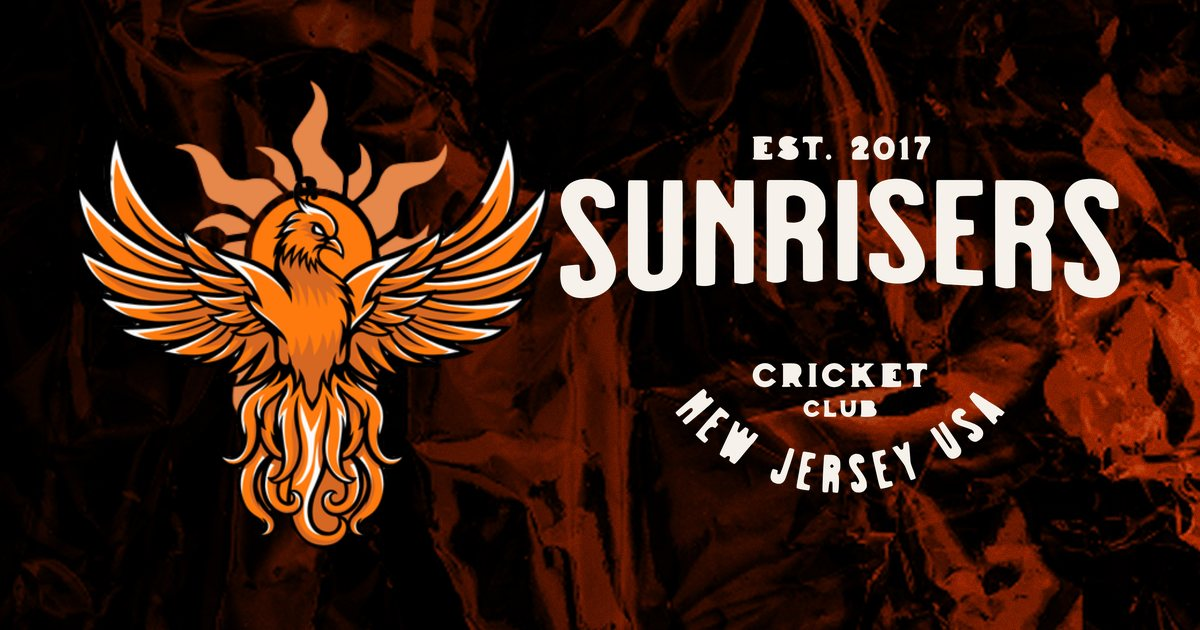
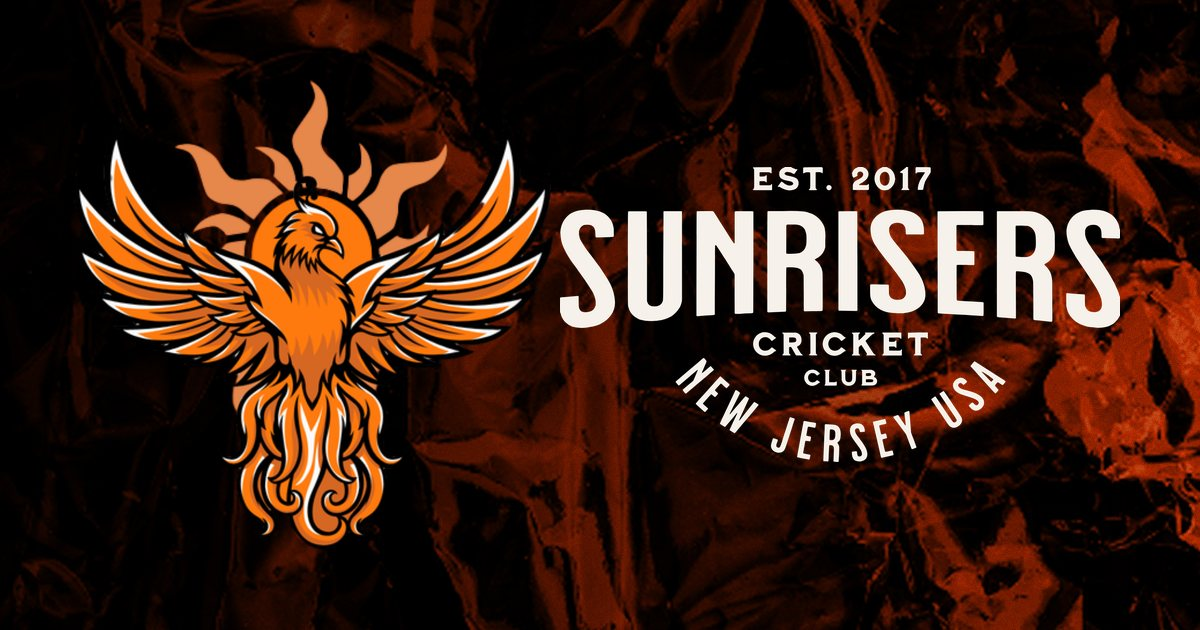
Wordmark: full lockup traced from Sai's two hand-cleaned images (8x upscale, flat vector, spacing per reference); OG from vector

Changed region(s): [[0.4625, 0.2111, 0.9558, 0.7841]]

diff --git a/tools/trace-wordmark.py b/tools/trace-wordmark.py
@@ -1,24 +1,28 @@
 #!/usr/bin/env python3
-"""Trace brand-src/wordmark.png (the supplied Milkstore 02 lettering) into a crisp one-colour SVG.
+"""Trace the supplied Milkstore 02 lettering into one crisp, flat, one-colour SVG (the hero and OG wordmark).
 
-The PNG has a soft halo baked into its alpha channel. We upscale the alpha 4x (Lanczos), blur by 2px to
-round off pixel steps, cut it at 50 percent alpha (that is where the halo ends and the letter edge is),
-then trace with potrace (smooth curves) and optimise with svgo.  Output: src/assets/img/brand/wordmark.svg
-(fill currentColor, viewBox 0 0 800 516) and brand-src/wordmark-traced-2x.png (cream, for the OG image).
+Sources (hand-cleaned by Sai: flat cream, hard alpha edges, no halo; see tools/wordmark_src.py for the layout):
+  brand-src/wordmark-sunrisers-est-clean.png    EST. 2017 + SUNRISERS
+  brand-src/wordmark-cricket-club-nj-clean.png  CRICKET CLUB + arched NEW JERSEY USA
+Steps: compose both onto one alpha canvas (Lanczos upscale straight to 8x the final size), blur ~0.5 px to round off the
+pixel steps, cut at 50 percent alpha, trace with potrace (smooth curves, corners kept), optimise with svgo.
+Output: src/assets/img/brand/wordmark.svg (fill currentColor, viewBox 0 0 800 422) and brand-src/wordmark-traced-2x.png
+(cream, for the OG image).
 Needs potrace (JS) which is NOT a devDependency (it pulls in vulnerable jimp): run `npm i --no-save potrace` first.
 Usage: python3 tools/trace-wordmark.py
 """
-import subprocess, tempfile, pathlib
+import subprocess, tempfile, pathlib, sys
 import numpy as np
 from PIL import Image, ImageFilter
+sys.path.insert(0, str(pathlib.Path(__file__).resolve().parent))
+from wordmark_src import R, W, H, compose
 
-R = pathlib.Path(__file__).resolve().parent.parent
-al = Image.open(R / "brand-src/wordmark.png").convert("RGBA").split()[3]
-S = 4
-big = al.resize((al.width * S, al.height * S), Image.LANCZOS).filter(ImageFilter.GaussianBlur(2))
-bw = np.where(np.array(big) > 128, 0, 255).astype("uint8")
+S = 8
+THR = 128
+big = Image.fromarray(compose(S)).filter(ImageFilter.GaussianBlur(3.5))
+bw = np.where(np.array(big) > THR, 0, 255).astype("uint8")
 with tempfile.TemporaryDirectory() as t:
     p = pathlib.Path(t) / "bw.png"
     Image.fromarray(bw).save(p)
-    subprocess.run(["node", str(R / "tools/trace-wordmark.mjs"), str(p), str(R / "src/assets/img/brand/wordmark.svg"), "0.4", "12"], check=True, cwd=R)
+    subprocess.run(["node", str(R / "tools/trace-wordmark.mjs"), str(p), str(R / "src/assets/img/brand/wordmark.svg"), "1", "60", str(S), "0.9", str(W), str(H)], check=True, cwd=R)
 subprocess.run(["node", str(R / "tools/render-wordmark.mjs")], check=True, cwd=R)

diff --git a/tools/compare-wordmark.py b/tools/compare-wordmark.py
@@ -1,0 +1,34 @@
+#!/usr/bin/env python3
+"""Overlay check: supplied alpha (halo and all) vs the traced vector. Writes shots/brand/wordmark-compare-*.png.
+Grey = both, green = only in the original (its soft halo or detail the trace dropped), magenta = only in the trace."""
+import pathlib, sys, numpy as np
+from PIL import Image
+sys.path.insert(0, str(pathlib.Path(__file__).resolve().parent))
+from wordmark_src import R, compose
+ref = Image.fromarray(compose(1))
+tr = Image.open(R/"brand-src/wordmark-traced-2x.png").convert("RGBA").split()[3].resize(ref.size, Image.LANCZOS)
+a = np.array(ref) > 128; b = np.array(tr) > 128
+print("IoU", round((a & b).sum()/(a | b).sum(), 4))
+def on_dark(m, col=(246,241,234)):
+    o = np.zeros(m.shape+(3,), "uint8"); o[...] = (20,12,10); o[m] = col; return Image.fromarray(o)
+ov = np.zeros(a.shape+(3,), "uint8"); ov[...] = (20,12,10)
+ov[a & b] = (150,150,150); ov[a & ~b] = (60,220,90); ov[~a & b] = (230,60,200)
+ra = np.array(ref).astype(float)/255; o = np.zeros(a.shape+(3,), "uint8"); o[...] = (20,12,10)
+o = (o*(1-ra[...,None]) + np.array((246,241,234))*ra[...,None]).astype("uint8")
+panels = [Image.fromarray(o), on_dark(b), Image.fromarray(ov)]
+W = sum(p.width for p in panels)+20*2; sheet = Image.new("RGB", (W, ref.height), (0,0,0)); x = 0
+for p in panels: sheet.paste(p, (x, 0)); x += p.width+20
+out = R/"shots/brand"; out.mkdir(parents=True, exist_ok=True)
+sheet.save(out/"wordmark-compare-original-vs-traced-vs-overlay.png")
+def zoom(box, z, name):
+    cs = [p.crop(box).resize(((box[2]-box[0])*z, (box[3]-box[1])*z), Image.LANCZOS if i<2 else Image.NEAREST) for i, p in enumerate(panels[:2])]
+    Image.fromarray(np.vstack([np.array(c) for c in cs])).save(out/name)
+zoom((0,0,400,240), 3, "wordmark-zoom-original-vs-traced.png")
+zoom((120,225,520,422), 3, "wordmark-zoom-bottom-original-vs-traced.png")
+
+# layout check against the home reference: reference crop scaled so SUNRISERS is the same width as ours
+rf = Image.open(R/"brand-src/home-reference.png").convert("RGB").crop((236,138,598,332))
+rf = rf.resize((round(rf.width*786/347), round(rf.height*786/347)), Image.LANCZOS)
+lock = panels[1]
+sheet2 = Image.new("RGB", (rf.width+lock.width+20, max(rf.height, lock.height)), (0,0,0)); sheet2.paste(rf,(0,0)); sheet2.paste(lock,(rf.width+20,0))
+sheet2.save(out/"wordmark-layout-reference-vs-traced.png")

diff --git a/tools/wordmark_src.py b/tools/wordmark_src.py
@@ -1,0 +1,33 @@
+"""Shared by trace-wordmark.py and compare-wordmark.py: compose the two supplied wordmark halves into one alpha canvas.
+
+  brand-src/wordmark-sunrisers-est-clean.png     800x230  EST. 2017 + SUNRISERS (hand-cleaned)   placed 1:1 at the top
+  brand-src/wordmark-cricket-club-nj-clean.png   800x314  CRICKET / CLUB / arched NEW JERSEY USA (hand-cleaned), placed at BOT_K scale
+Layout is taken from brand-src/home-reference.png: CRICKET is 0.32 of the SUNRISERS width and starts a hair under it,
+the arch is 0.58 of the SUNRISERS width.  (CRICKET is 423px wide in the supplied file; 250 / 423 = 0.59.)
+Keep the constants in sync with the overlap test in tests/site.spec.mjs.
+"""
+import pathlib
+import numpy as np
+from PIL import Image
+
+R = pathlib.Path(__file__).resolve().parent.parent
+W, H = 800, 422          # lockup canvas = SVG viewBox
+BOT_K = 0.59             # scale of the cricket-club file
+BOT_X, BOT_Y = 165, 236  # where its top-left lands (centres CRICKET under SUNRISERS, ~6px under the lowest S)
+
+def alpha(name):
+    return Image.open(R / "brand-src" / name).convert("RGBA").getchannel("A")
+
+def compose(S=1, resample=Image.LANCZOS):
+    """Return the lockup alpha as a uint8 array at S times the 800x422 canvas."""
+    top = alpha("wordmark-sunrisers-est-clean.png")
+    bot = alpha("wordmark-cricket-club-nj-clean.png")
+    out = np.zeros((H * S, W * S), "uint8")
+    t = np.array(top.resize((top.width * S, top.height * S), resample))
+    out[: t.shape[0]] = t
+    bw, bh = round(bot.width * BOT_K * S), round(bot.height * BOT_K * S)
+    b = np.array(bot.resize((bw, bh), resample))
+    y0, x0 = BOT_Y * S, BOT_X * S
+    sl = out[y0 : y0 + bh, x0 : x0 + bw]
+    np.maximum(sl, b[: sl.shape[0], : sl.shape[1]], out=sl)
+    return out

diff --git a/tools/build-brand.py b/tools/build-brand.py
@@ -82,9 +82,7 @@ for W in (96, 192, 384):
 print("phoenix aspect", ph.width / ph.height)
 
 # ---- 4. wordmark ----
-wm = Image.open(S / "wordmark.png").convert("RGBA"); wm = wm.crop(wm.getbbox())
-print("wordmark", wm.size, "aspect", wm.width / wm.height)
-# the hero wordmark is the traced vector src/assets/img/brand/wordmark.svg (tools/trace-wordmark.py); the supplied wordmark.png has a baked-in soft halo, so it is not shipped
+# the hero wordmark is the traced vector src/assets/img/brand/wordmark.svg (tools/trace-wordmark.py); the supplied wordmark PNGs have a baked-in soft halo, so it is not shipped
 
 # ---- 5. icons on a dark ground (maskable-safe padding) ----
 def icon(size, pad=0.14, bg=(18, 8, 4)):

diff --git a/docs/BRAND-SLOTS.md b/docs/BRAND-SLOTS.md
@@ -6,7 +6,7 @@ Everything brand-specific is isolated so it can be swapped without touching layo
 |---|---|---|
 | Colours | `src/css/tokens.css`, block "BRAND SLOT 1" (`--ink`, `--sun`, `--flare`, `--paper`, `--on-*`) | Replace values only. Keep the names. Keep text/background pairs at 4.5:1 (7:1 for small text on black). Run `npm test` (axe) after. |
 | Fonts | `src/css/tokens.css` "BRAND SLOT 2" plus `@font-face` at the top of `src/css/site.css`; font files in `src/assets/fonts/` | Self-host new woff2 files (no Google Fonts links: the CSP blocks them). Update the preload in `src/partials/layout.html`. |
-| Wordmark (hero, OG) | `brand-src/wordmark.png` is the supplied Milkstore 02 lettering with a soft halo baked into its alpha. `python3 tools/trace-wordmark.py` cuts the alpha at 50 percent after a 4x upscale, traces it with potrace and optimises with svgo into `src/assets/img/brand/wordmark.svg` (one path, `currentColor`, viewBox 800x516), inlined in the home hero via `{{wordmark}}`. Same script renders `brand-src/wordmark-traced-2x.png` for the OG card. Needs `npm i --no-save potrace` (not a devDependency: it pulls in vulnerable jimp). Milkstore 02 itself is a paid Heritage Type Co. font and is not used or shipped. | Re-run after replacing `wordmark.png`. |
+| Wordmark (hero, OG) | Two hand-cleaned Milkstore 02 images from Sai (flat cream, hard alpha edges, no halo): `brand-src/wordmark-sunrisers-est-clean.png` (EST. 2017 + SUNRISERS, placed 1:1) and `brand-src/wordmark-cricket-club-nj-clean.png` (CRICKET / CLUB / arched NEW JERSEY USA, scaled 0.59 and centred under it so the spacing matches `home-reference.png`; layout constants in `tools/wordmark_src.py`). `python3 tools/trace-wordmark.py` composes them, upscales 8x (Lanczos), blurs half a pixel to round off pixel steps, cuts at 50 percent alpha, traces with potrace and optimises with svgo into `src/assets/img/brand/wordmark.svg` (one path, `currentColor`, viewBox 800x422), inlined in the home hero via `{{wordmark}}`. The same script renders `brand-src/wordmark-traced-2x.png` for the OG card; `python3 tools/compare-wordmark.py` writes the overlay and layout comparison images to `shots/brand/`. Needs `npm i --no-save potrace` (not a devDependency: it pulls in vulnerable jimp). Milkstore 02 itself is a paid Heritage Type Co. font and is not used or shipped. The earlier halo versions (`wordmark.png`, `wordmark-sunrisers-est.png`, `wordmark-cricket-club-nj.png`) are kept in `brand-src/` as history only. | Re-run both scripts after replacing either PNG. |
 | Logo, texture | `brand-src/` (originals: `logo-phoenix.png`, `wordmark.png`, `texture.png`, `home-reference.png`; `logo-with-text.png` is an overlapping composite and is not used) | Run `python3 tools/build-brand.py`. It writes avif/webp/png (opaque textures: avif/webp/jpg) into `src/assets/img/brand/`, plus favicon, app icons and the 1200x630 OG image. The texture is recoloured to the reference by histogram matching. |
 | Hero art | `.hero` block in `src/pages/index.html` (`picture.hero__tex` + centred `h1.hero__mark` wordmark) and `.hero*` / `.phero::before` / `.band--tex` / `.foot` in `site.css` | Re-run `tools/build-brand.py` after replacing a file in `brand-src/`. Accent tokens (`--sun`, `--sun-deep`) were sampled from `home-reference.png`; keep them at 4.5:1. |
 | Photography | every `.slot` (labelled "Placeholder") in `src/pages/*.html` | Replace the slot `div` with `<img>` (width/height set, descriptive alt, `loading="lazy"` below the fold). Add the image origin to nothing: keep images self-hosted so `img-src 'self'` holds. |

diff --git a/docs/TEST-REPORT.md b/docs/TEST-REPORT.md
@@ -64,3 +64,6 @@ Honest notes: the opaque textures use a jpg fallback (not png) because they have
 
 ## Run of 15 Nov 2026 (after midnight): traced vector wordmark
 The hero wordmark is now the supplied Milkstore 02 lettering traced to one crisp SVG path (no glow, blur or filter), inlined with `fill: currentColor` in the cream token; the OG image uses the same vector. The earlier Barlow Condensed SVG text and its font file were removed. Traced shapes overlap the supplied PNG at 98.3 percent (pixel XOR 1.7 percent of the lettering area at a 50 percent alpha cut); tests: one flat path, no text, image or filter, same viewBox, no computed filter or shadow, load entrance without blur, reduced motion still, and an overlap test (IoU above 0.95) against `brand-src/wordmark.png`. See the final run below for totals.
+
+### Final run, 15 Nov 2026: wordmark traced from the two hand-cleaned images
+Source: `wordmark-sunrisers-est-clean.png` + `wordmark-cricket-club-nj-clean.png` (composed per `home-reference.png`), 8x upscale, traced to one flat path (viewBox 800x422). Overlay IoU against the sources 0.986. Playwright (desktop 1440 + mobile 390): 225 passed, 5 skipped (touch-only), 0 failed. `npm audit`: 0. html-validate clean.
